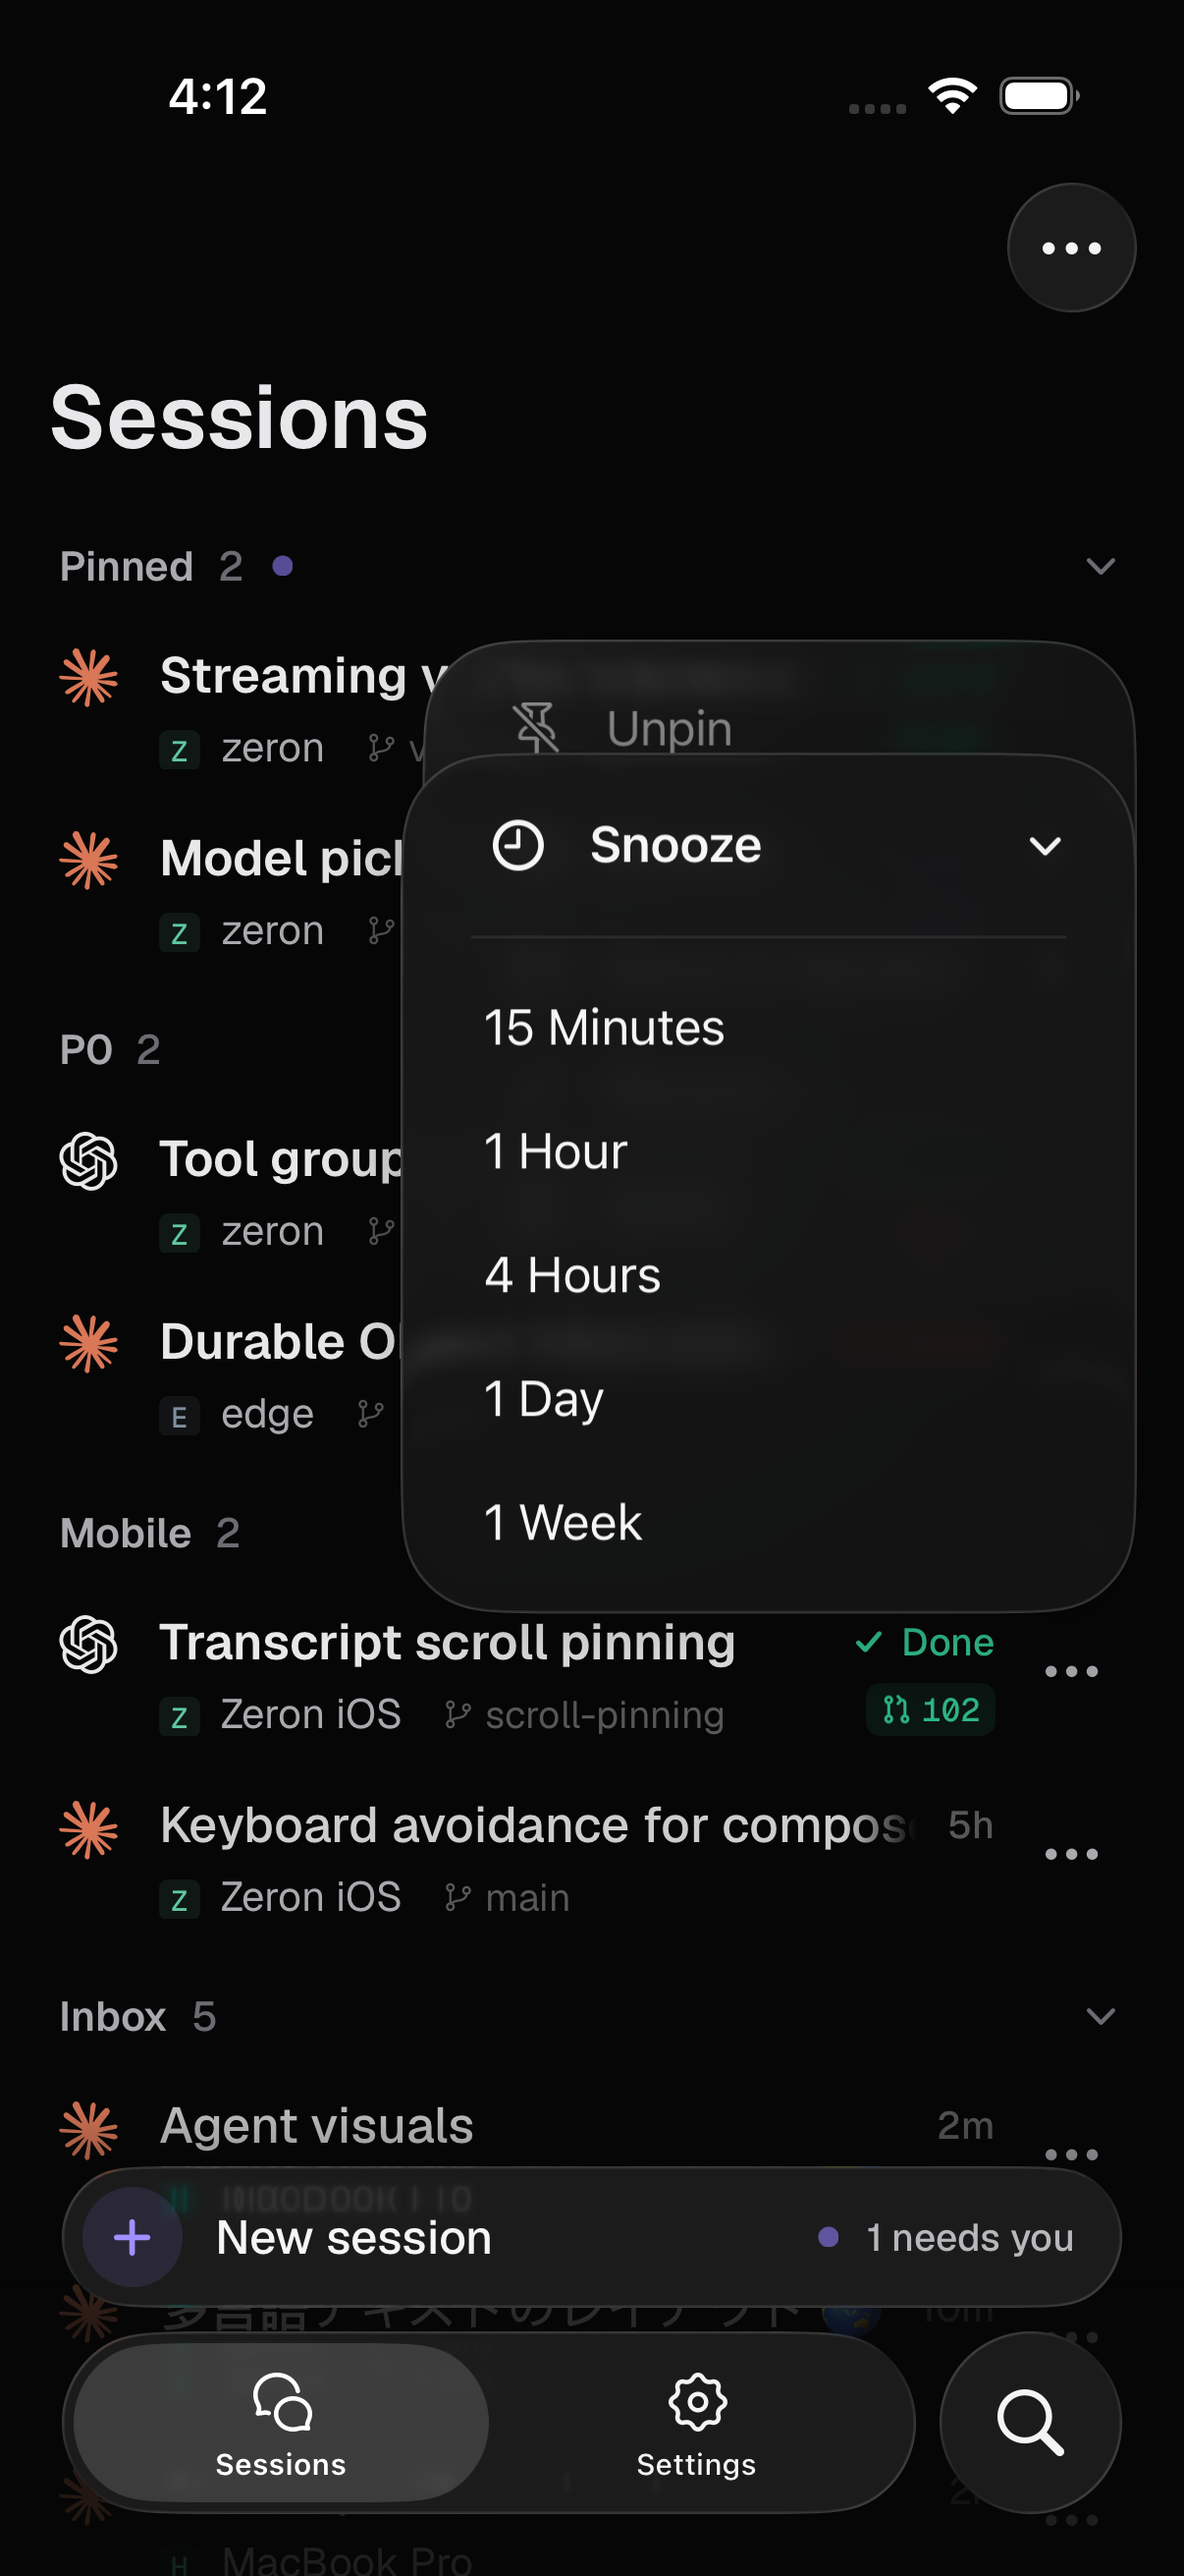
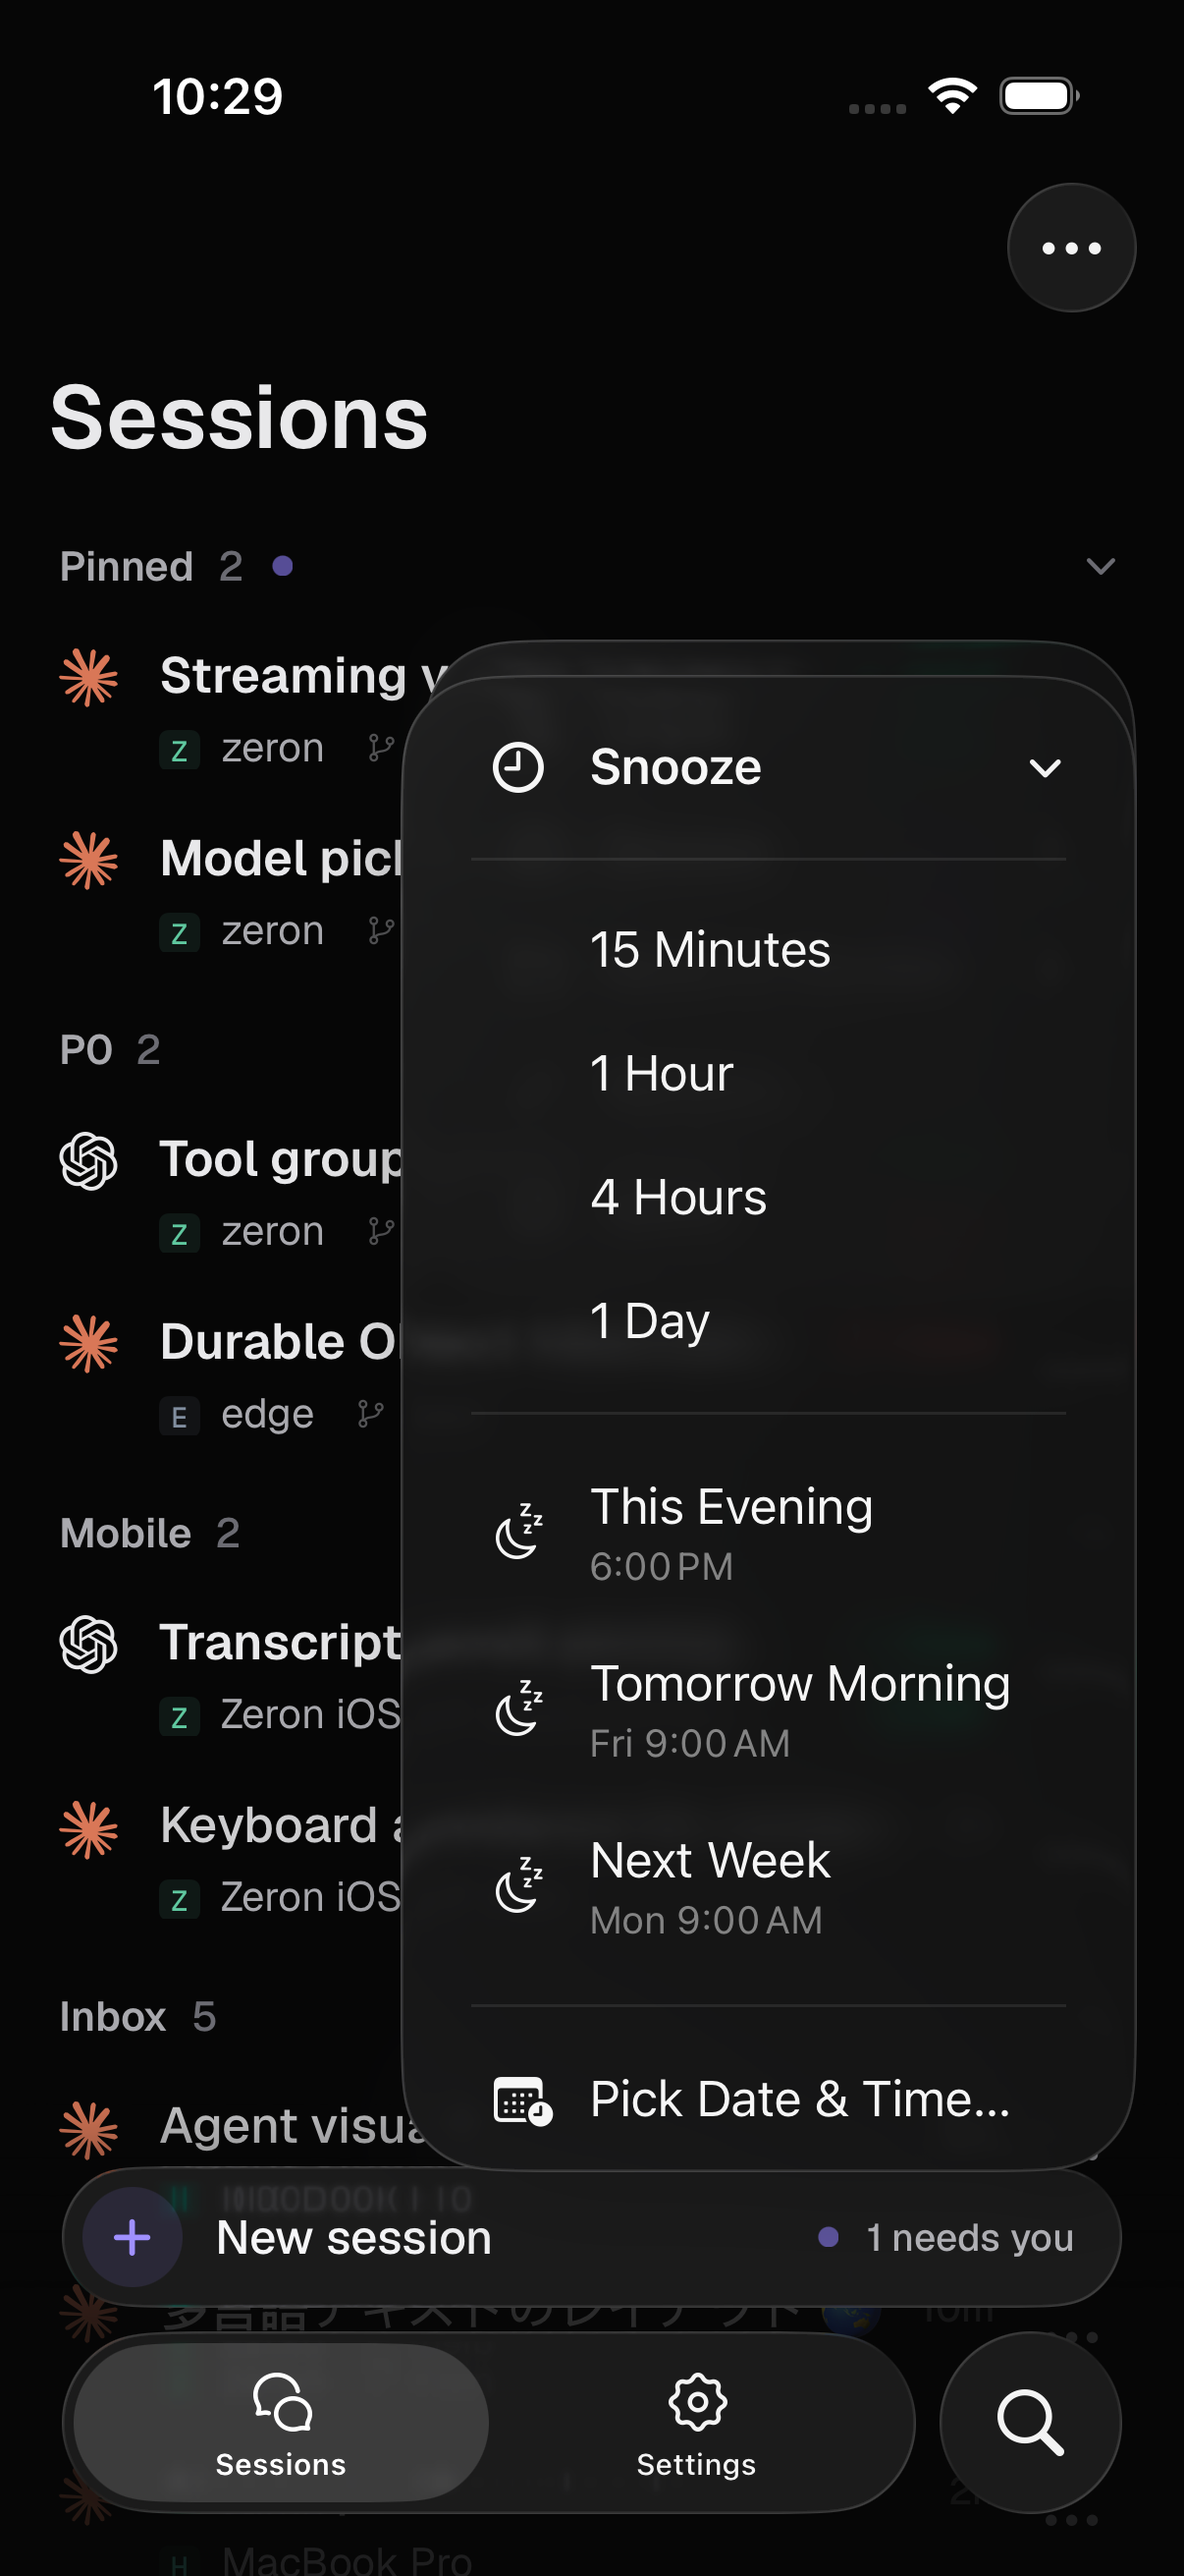
docs(t3): refresh native iOS snooze picker screenshots

diff --git a/docs/previews/t3-mode/README.md b/docs/previews/t3-mode/README.md
@@ -39,13 +39,15 @@ Native fixture captures of the compact snooze card and its inline custom field.
 
 ## iOS
 
-These iOS captures predate the custom picker redesign. Native simulator captures from [the passing screenshot workflow](https://github.com/bigx333/zeron/actions/runs/38677893616).
+Native simulator captures of the redesigned snooze controls from [the passing screenshot workflow](https://github.com/bigx333/zeron/actions/runs/38717781894).
 
 | Screen | Dark | Light |
 | --- | --- | --- |
 | Inbox and visible row action buttons | [Open](ios-t3-dark-inbox-folded.png) | [Open](ios-t3-light-inbox-folded.png) |
 | Snooze and Settle actions | [Open](ios-t3-dark-row-actions.png) | [Open](ios-t3-light-row-actions.png) |
-| Snooze duration submenu | [Open](ios-t3-dark-row-snooze-menu.png) | [Open](ios-t3-light-row-snooze-menu.png) |
+| Snooze presets and wake-time choices | [Open](ios-t3-dark-row-snooze-menu.png) | [Open](ios-t3-light-row-snooze-menu.png) |
+| Native date-and-time picker | [Open](ios-t3-dark-snooze-until-picker.png) | [Open](ios-t3-light-snooze-until-picker.png) |
+| Working, Snoozed and Settled folded | [Open](ios-t3-dark-shelves-folded.png) | [Open](ios-t3-light-shelves-folded.png) |
 | Snoozed and Settled shelves expanded | [Open](ios-t3-dark-shelves-open-scrolled.png) | [Open](ios-t3-light-shelves-open-scrolled.png) |
 
 ![iOS T3 touch actions](ios-t3-light-row-actions.png)
